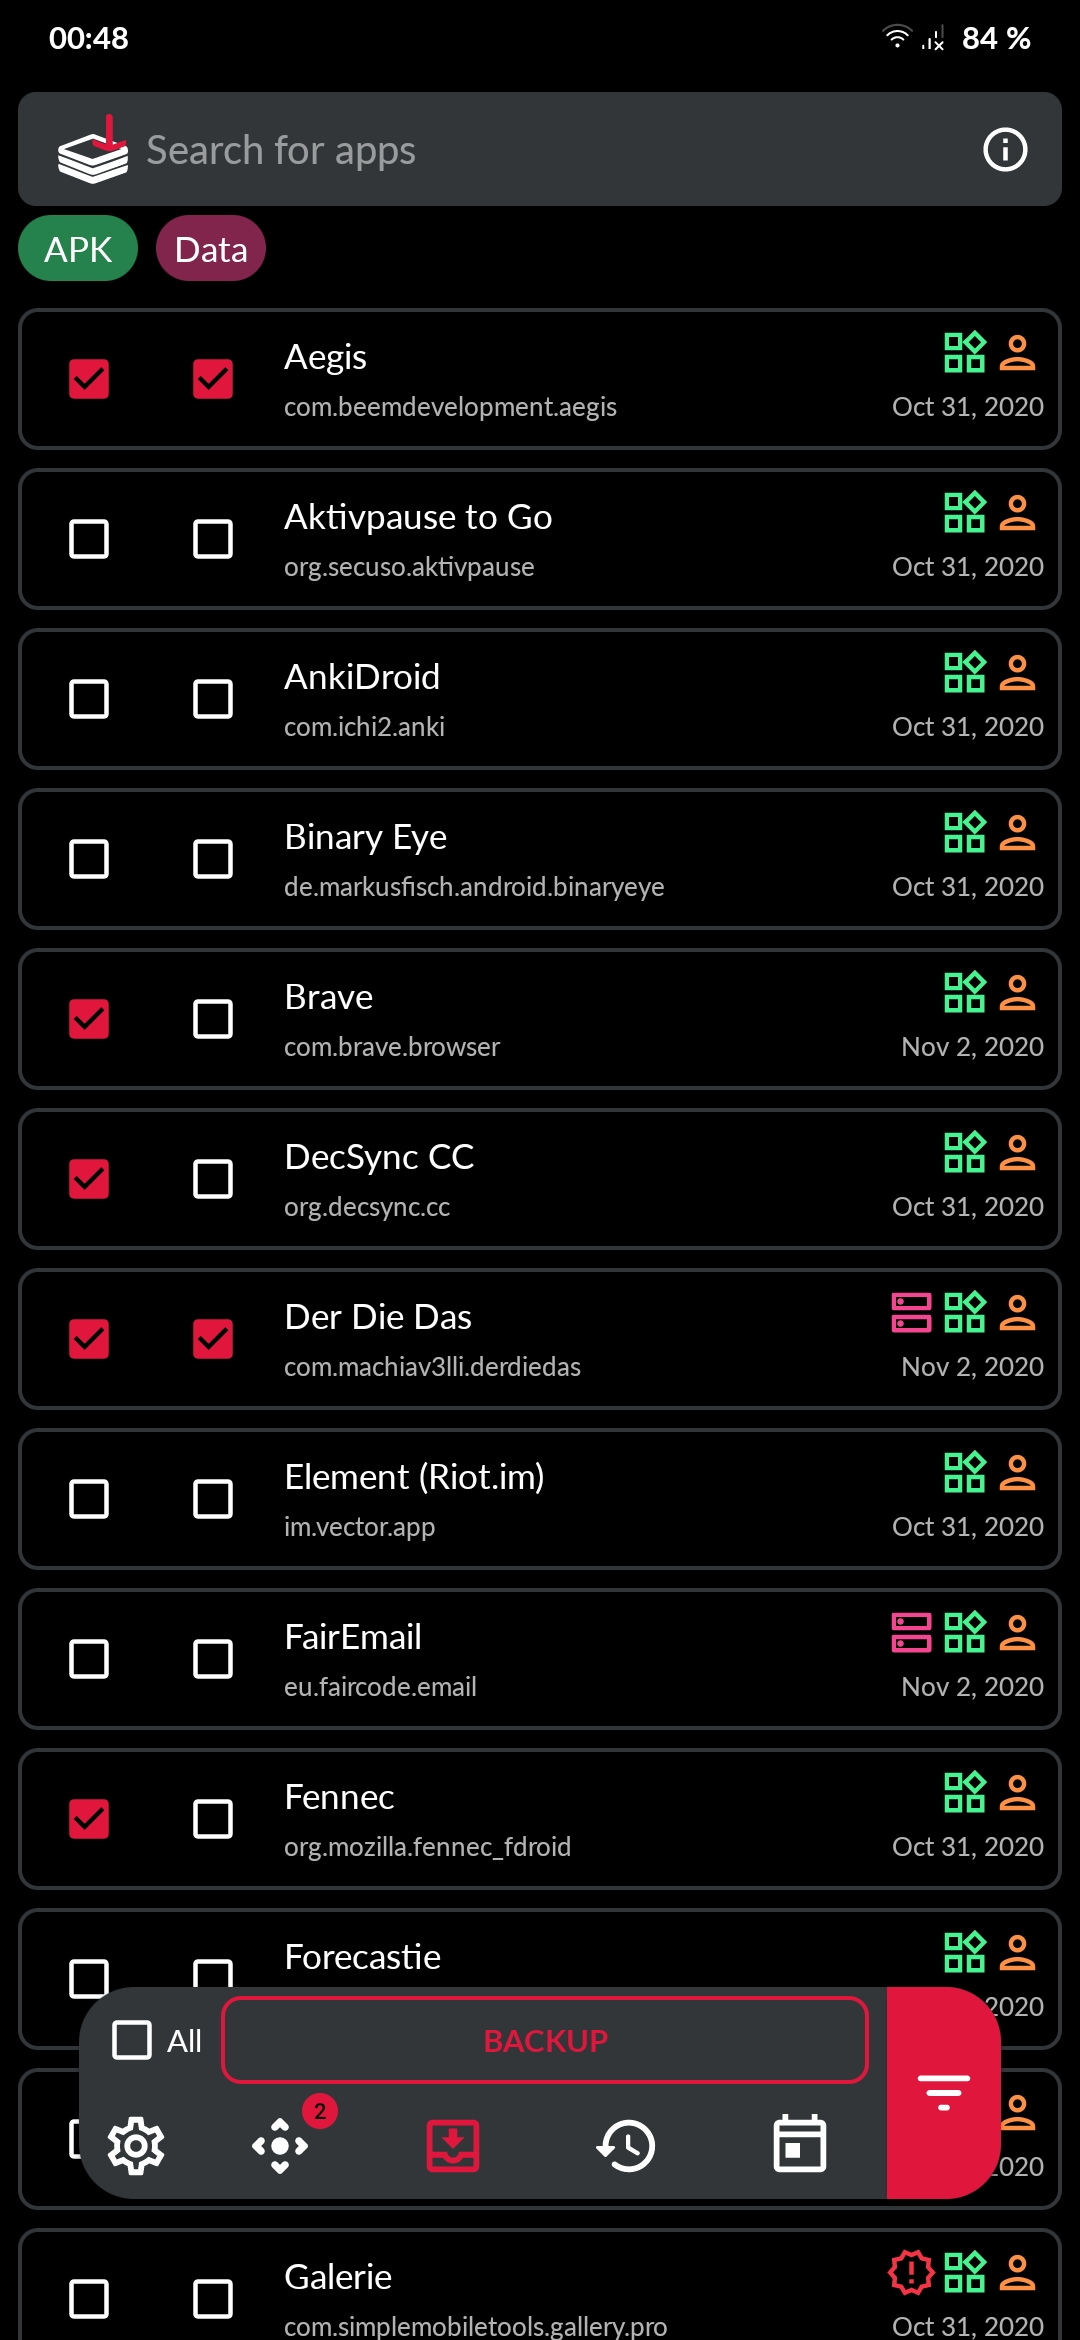
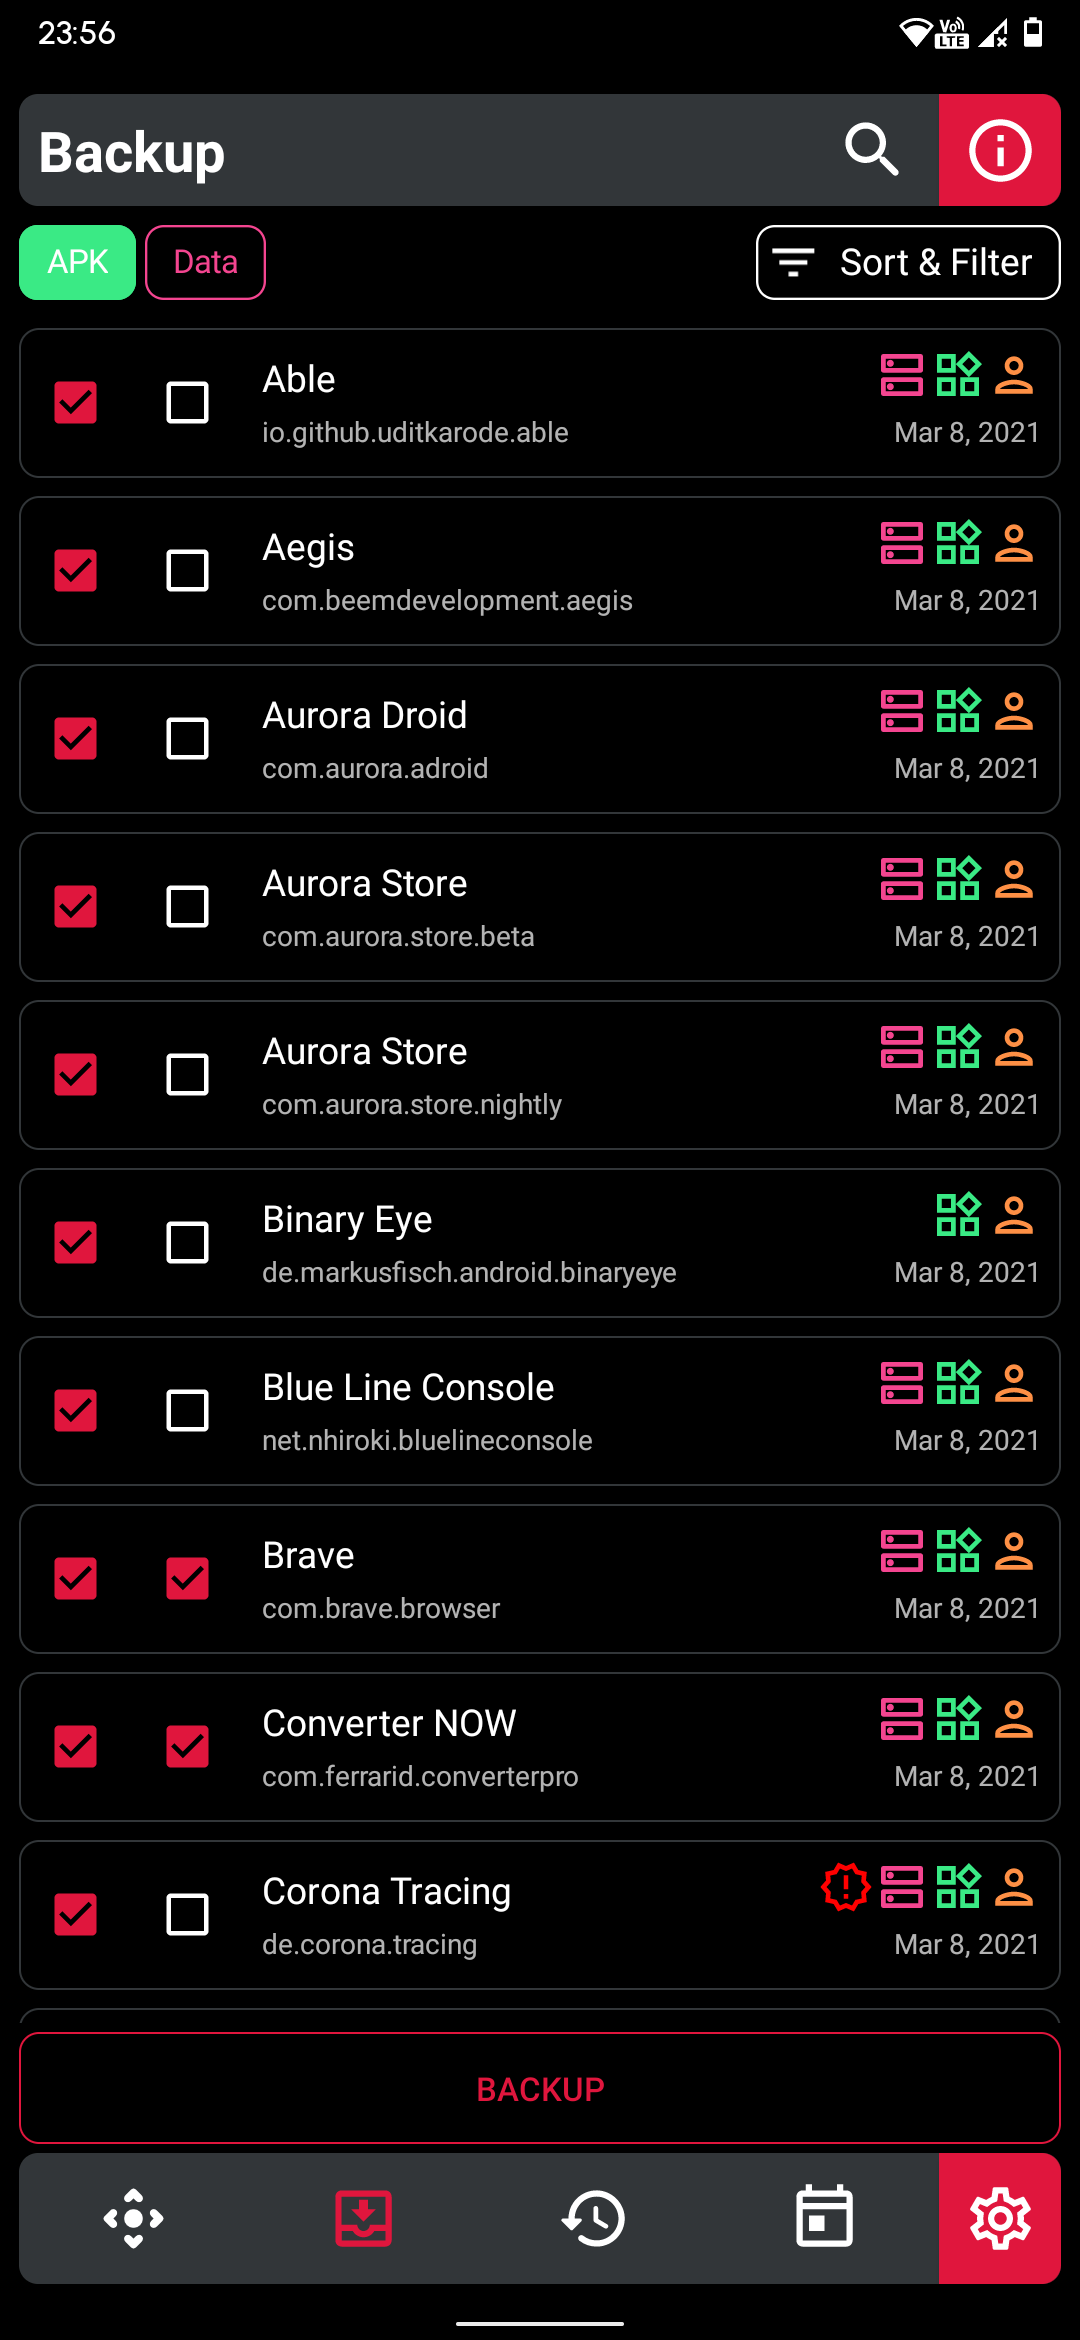
(Anniversary) Release 5.1.0
It's been a wild year introducing us to some new challenges but also building a nice community around this project.

Thanks for everyone that took part of the project at any point and hope you enjoy the new UI.

Special thanks goes to @tsiflimagas, @Tiefkuehlpizze, @hg42 and @jensstein.

diff --git a/README.md b/README.md
@@ -2,7 +2,7 @@
 
 [![Contributor Covenant](https://img.shields.io/badge/Contributor%20Covenant-v2.0%20adopted-ff69b4.svg)](COC.md) [![Main CI Workflow](https://github.com/machiav3lli/oandbackupx/workflows/Main%20CI%20Workflow/badge.svg?branch=master)](https://github.com/machiav3lli/oandbackupx/actions?query=workflow%3A%22Main+CI+Workflow%22)
 
-OAndBackupX is a fork of the famous OAndBackup with the aim to bring OAndBackup to 2020. For now most of the functionality and UI of the app are rewritten, next steps would be making it stable and adding some features which could ease the backup/restore workflow with any device. Therefore all types of contribution are welcome.
+OAndBackupX is a fork of the famous OAndBackup with the aim to bring OAndBackup to 2020. For now the app is already fully rewritten, coming up would be making it robust and adding some lengthily planned features which could ease the backup/restore workflow with any device. Therefore all types of contribution are always welcome.
 
 Now on functionality of our App:
 
@@ -55,22 +55,11 @@ The communication and each contribution in the project community should follow o
 
 ## Screenshots
 
-### Dark Theme
-
 <p float="left">
  <img src="/fastlane/metadata/android/en-US/images/phoneScreenshots/1.png" width="170" />
  <img src="/fastlane/metadata/android/en-US/images/phoneScreenshots/2.png" width="170" />
  <img src="/fastlane/metadata/android/en-US/images/phoneScreenshots/3.png" width="170" />
  <img src="/fastlane/metadata/android/en-US/images/phoneScreenshots/4.png" width="170" />
-</p>
-
-### Light Theme
-
-<p float="left">
- <img src="/fastlane/metadata/android/en-US/images/phoneScreenshots/5.png" width="170" />
- <img src="/fastlane/metadata/android/en-US/images/phoneScreenshots/6.png" width="170" />
- <img src="/fastlane/metadata/android/en-US/images/phoneScreenshots/7.png" width="170" />
- <img src="/fastlane/metadata/android/en-US/images/phoneScreenshots/8.png" width="170" />
 </p>
 
 ## Building

diff --git a/DEVDOC.md b/DEVDOC.md
@@ -2,7 +2,15 @@
 
 - [ ] Rootless Backups: maybe [Shizuku](https://github.com/RikkaApps/Shizuku) could be useful in this matter.
 
-- [ ] More functionality for AppSheet: kill app, share backup, clear data (for now...).
+- [ ] More functionality for AppSheet:
+
+  - [x] Kill app
+
+  - [ ] share backup
+
+  - [x] launch
+
+  - [x] package info shortcut
 
 - [x] Multi-Backups support
 
@@ -20,7 +28,17 @@
 
 ## Needed Fixes
 
-- [ ] Fully support for Special Backups: Accounts, SMS, Bluetooth, Wifi (for now...).
+- [ ] Fully support for Special Backups:
+
+  - [ ] Accounts
+
+  - [ ] SMS
+
+  - [ ] Bluetooth
+
+  - [ ] Wifi
+
+  - [ ] and others…
 
 - [ ] Compatibility with Work Profiles: making Backup/Restore-Task profiles-sensitive. NEEDS TESTING
 
@@ -42,9 +60,15 @@
 
 - [x] Not responding to clicks after long time in background
 
+- [ ] Fix GSF push notifications' issue
+
 ## Planned Restructure
 
+- [x] Improve UI/UX (on anniversary release as co-op with @opepp)
+
 - [ ] Use DataBinding/BindingAdapter where useful
+
+- [ ] Migrate to Jetpack Compose instead of XML (where possible)
 
 - [x] Refactore Batch & Schedules handling
 
@@ -66,6 +90,6 @@
 
 - [ ] Add Flashable Zip feature
 
-- [ ] (re)add OpenGPG
+- [ ] (re)integrate OpenGPG
 
 - [ ] Legacy Backup mode

diff --git a/CHANGELOG.md b/CHANGELOG.md
@@ -1,6 +1,24 @@
 CHANGELOG
 =========
 
+5.1.0 (18.03.2021)
+------------------
+
+* Added: Tool to save apps' list to a file
+* Added: Option to use device credentials as lock
+* Added: Names to schedules
+* Added: Force kill and launch to App Sheet
+* Added: Updated apps bar
+* Added: Snackbar on single Backup/Restore actions
+* Added: Warning text to enable special backups preference
+* Updated: UI/UX revamp (in co-op with @opepp)
+* Updated: STOP-CONT default is on
+* Fixed: Scheduling backups
+* Fixed: Log items sdk release name
+* Fixed: Crash on batch actions with nothing checked
+* Updated Translations: Norwegian, German, Chinese, Spanish, Polish, Indonesian, Malayalam, French, Turkish, Arabic
+* A ton of other small fixes
+
 5.0.2 (24.02.2021)
 ------------------
 
